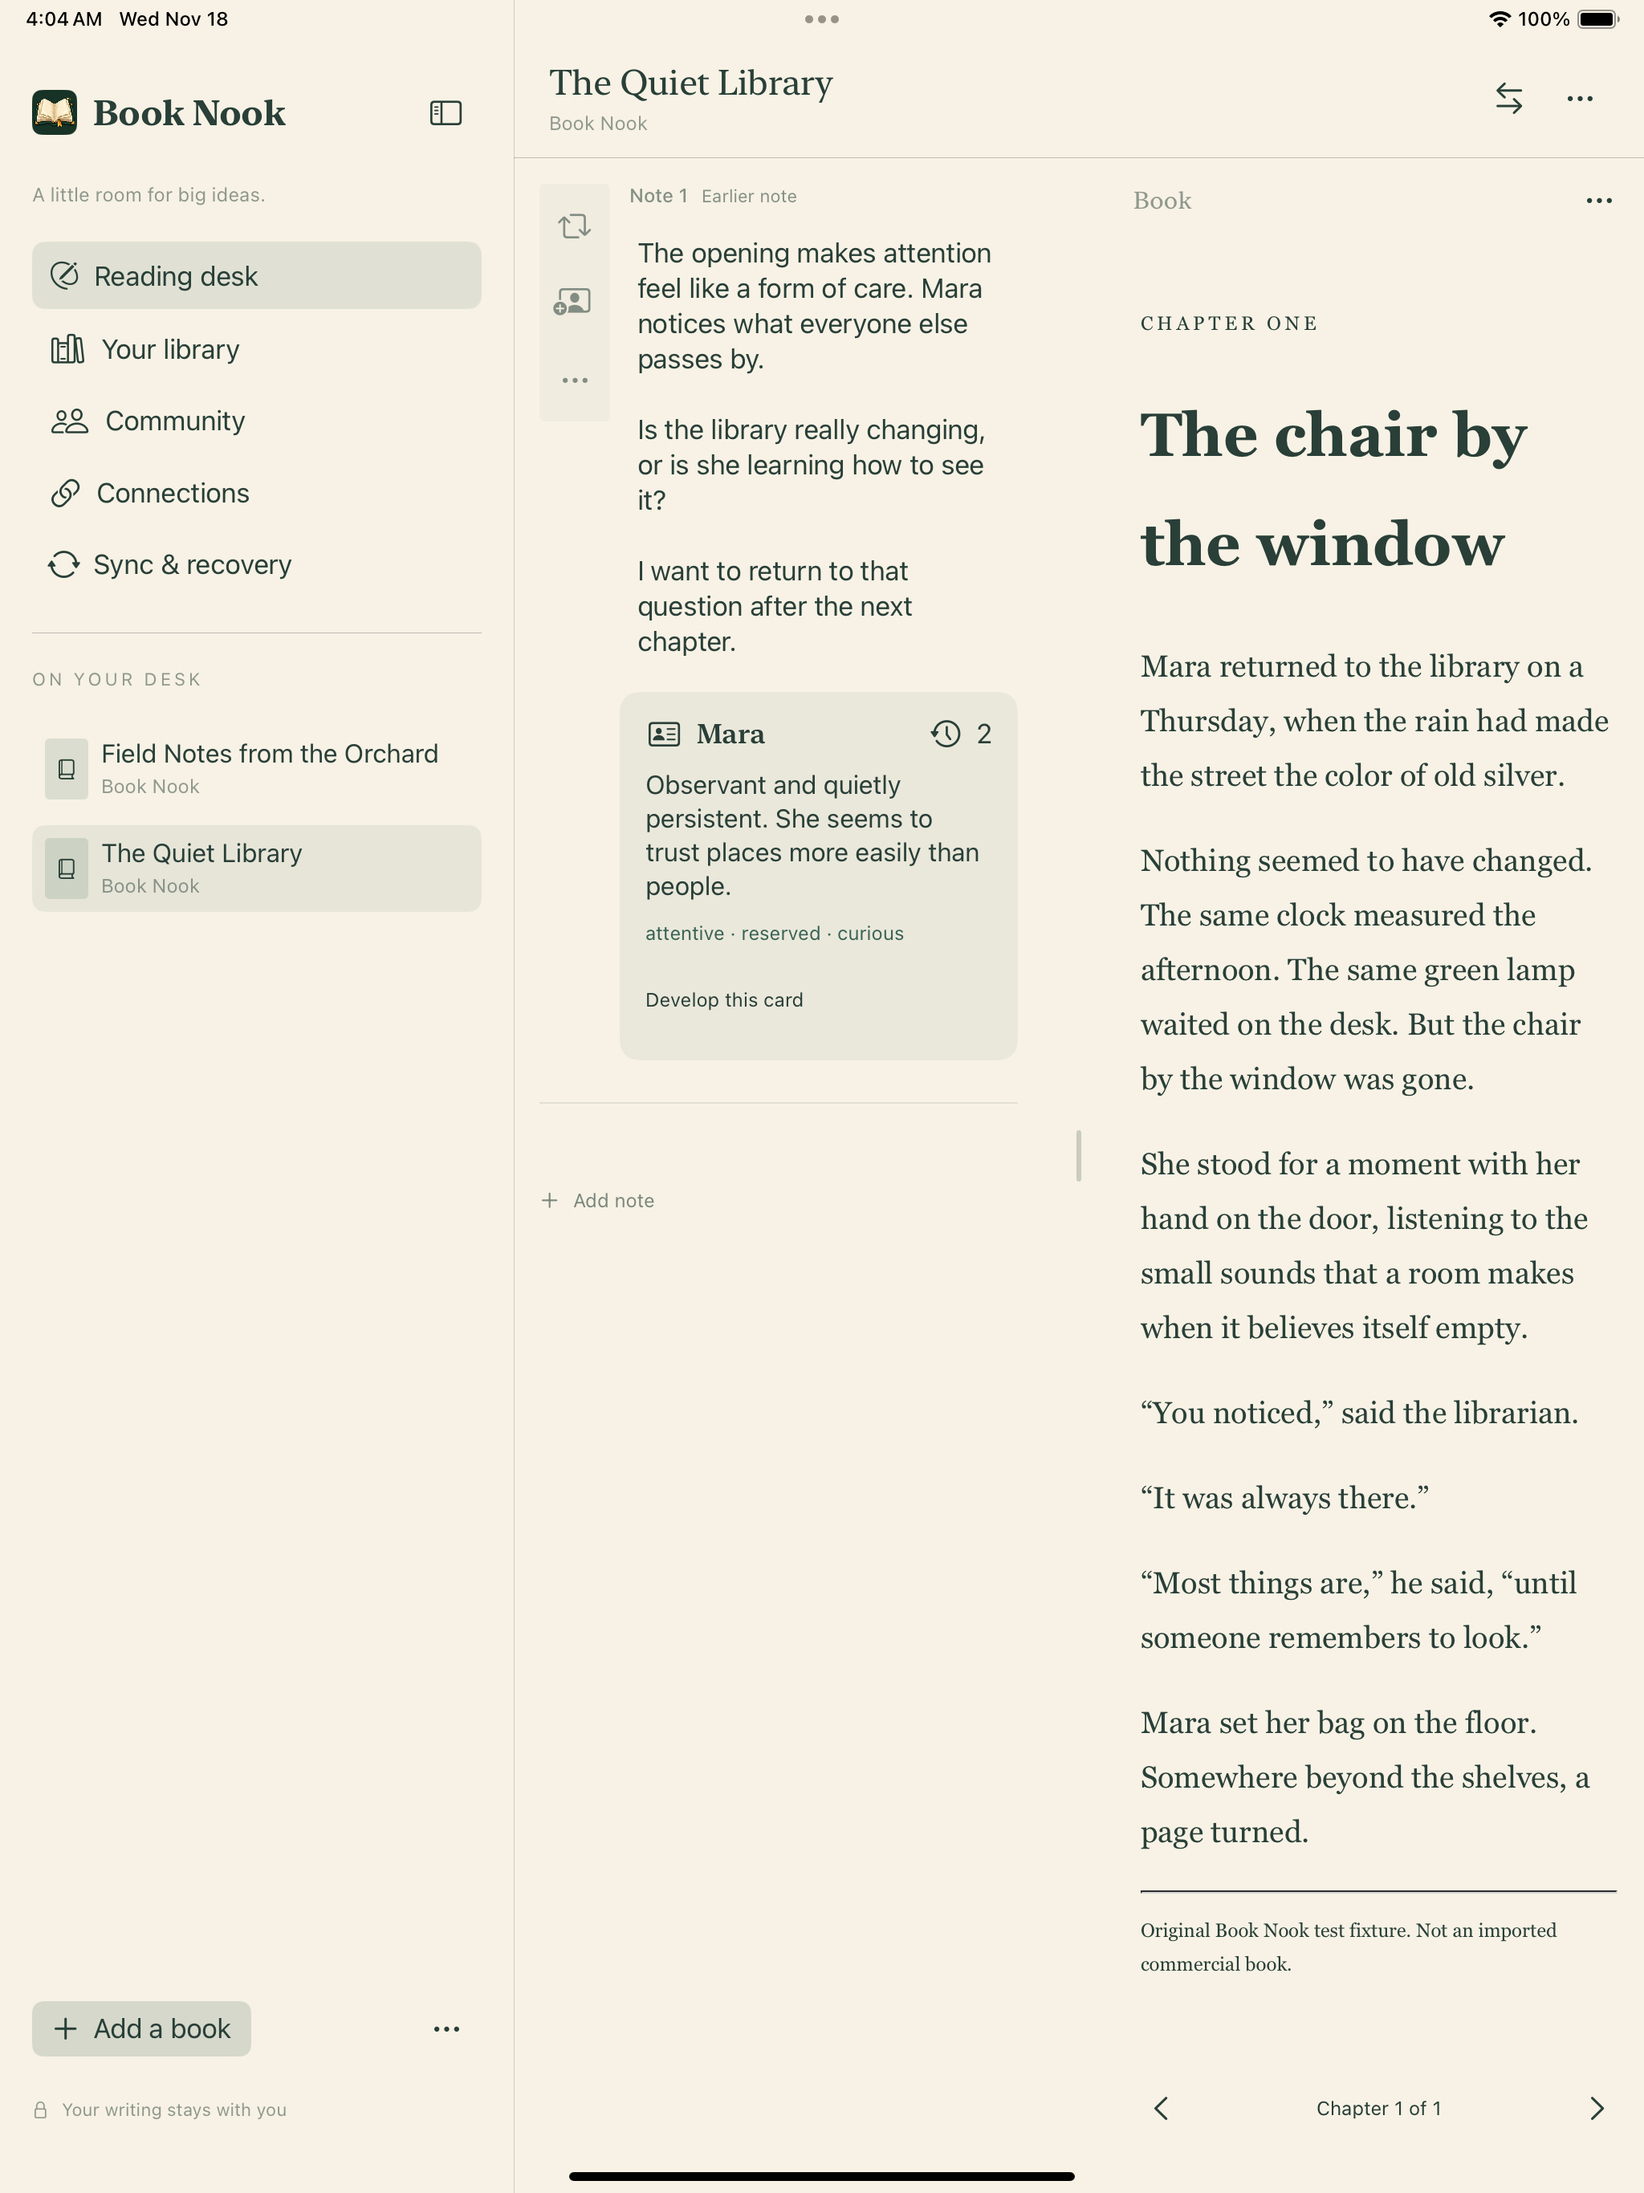
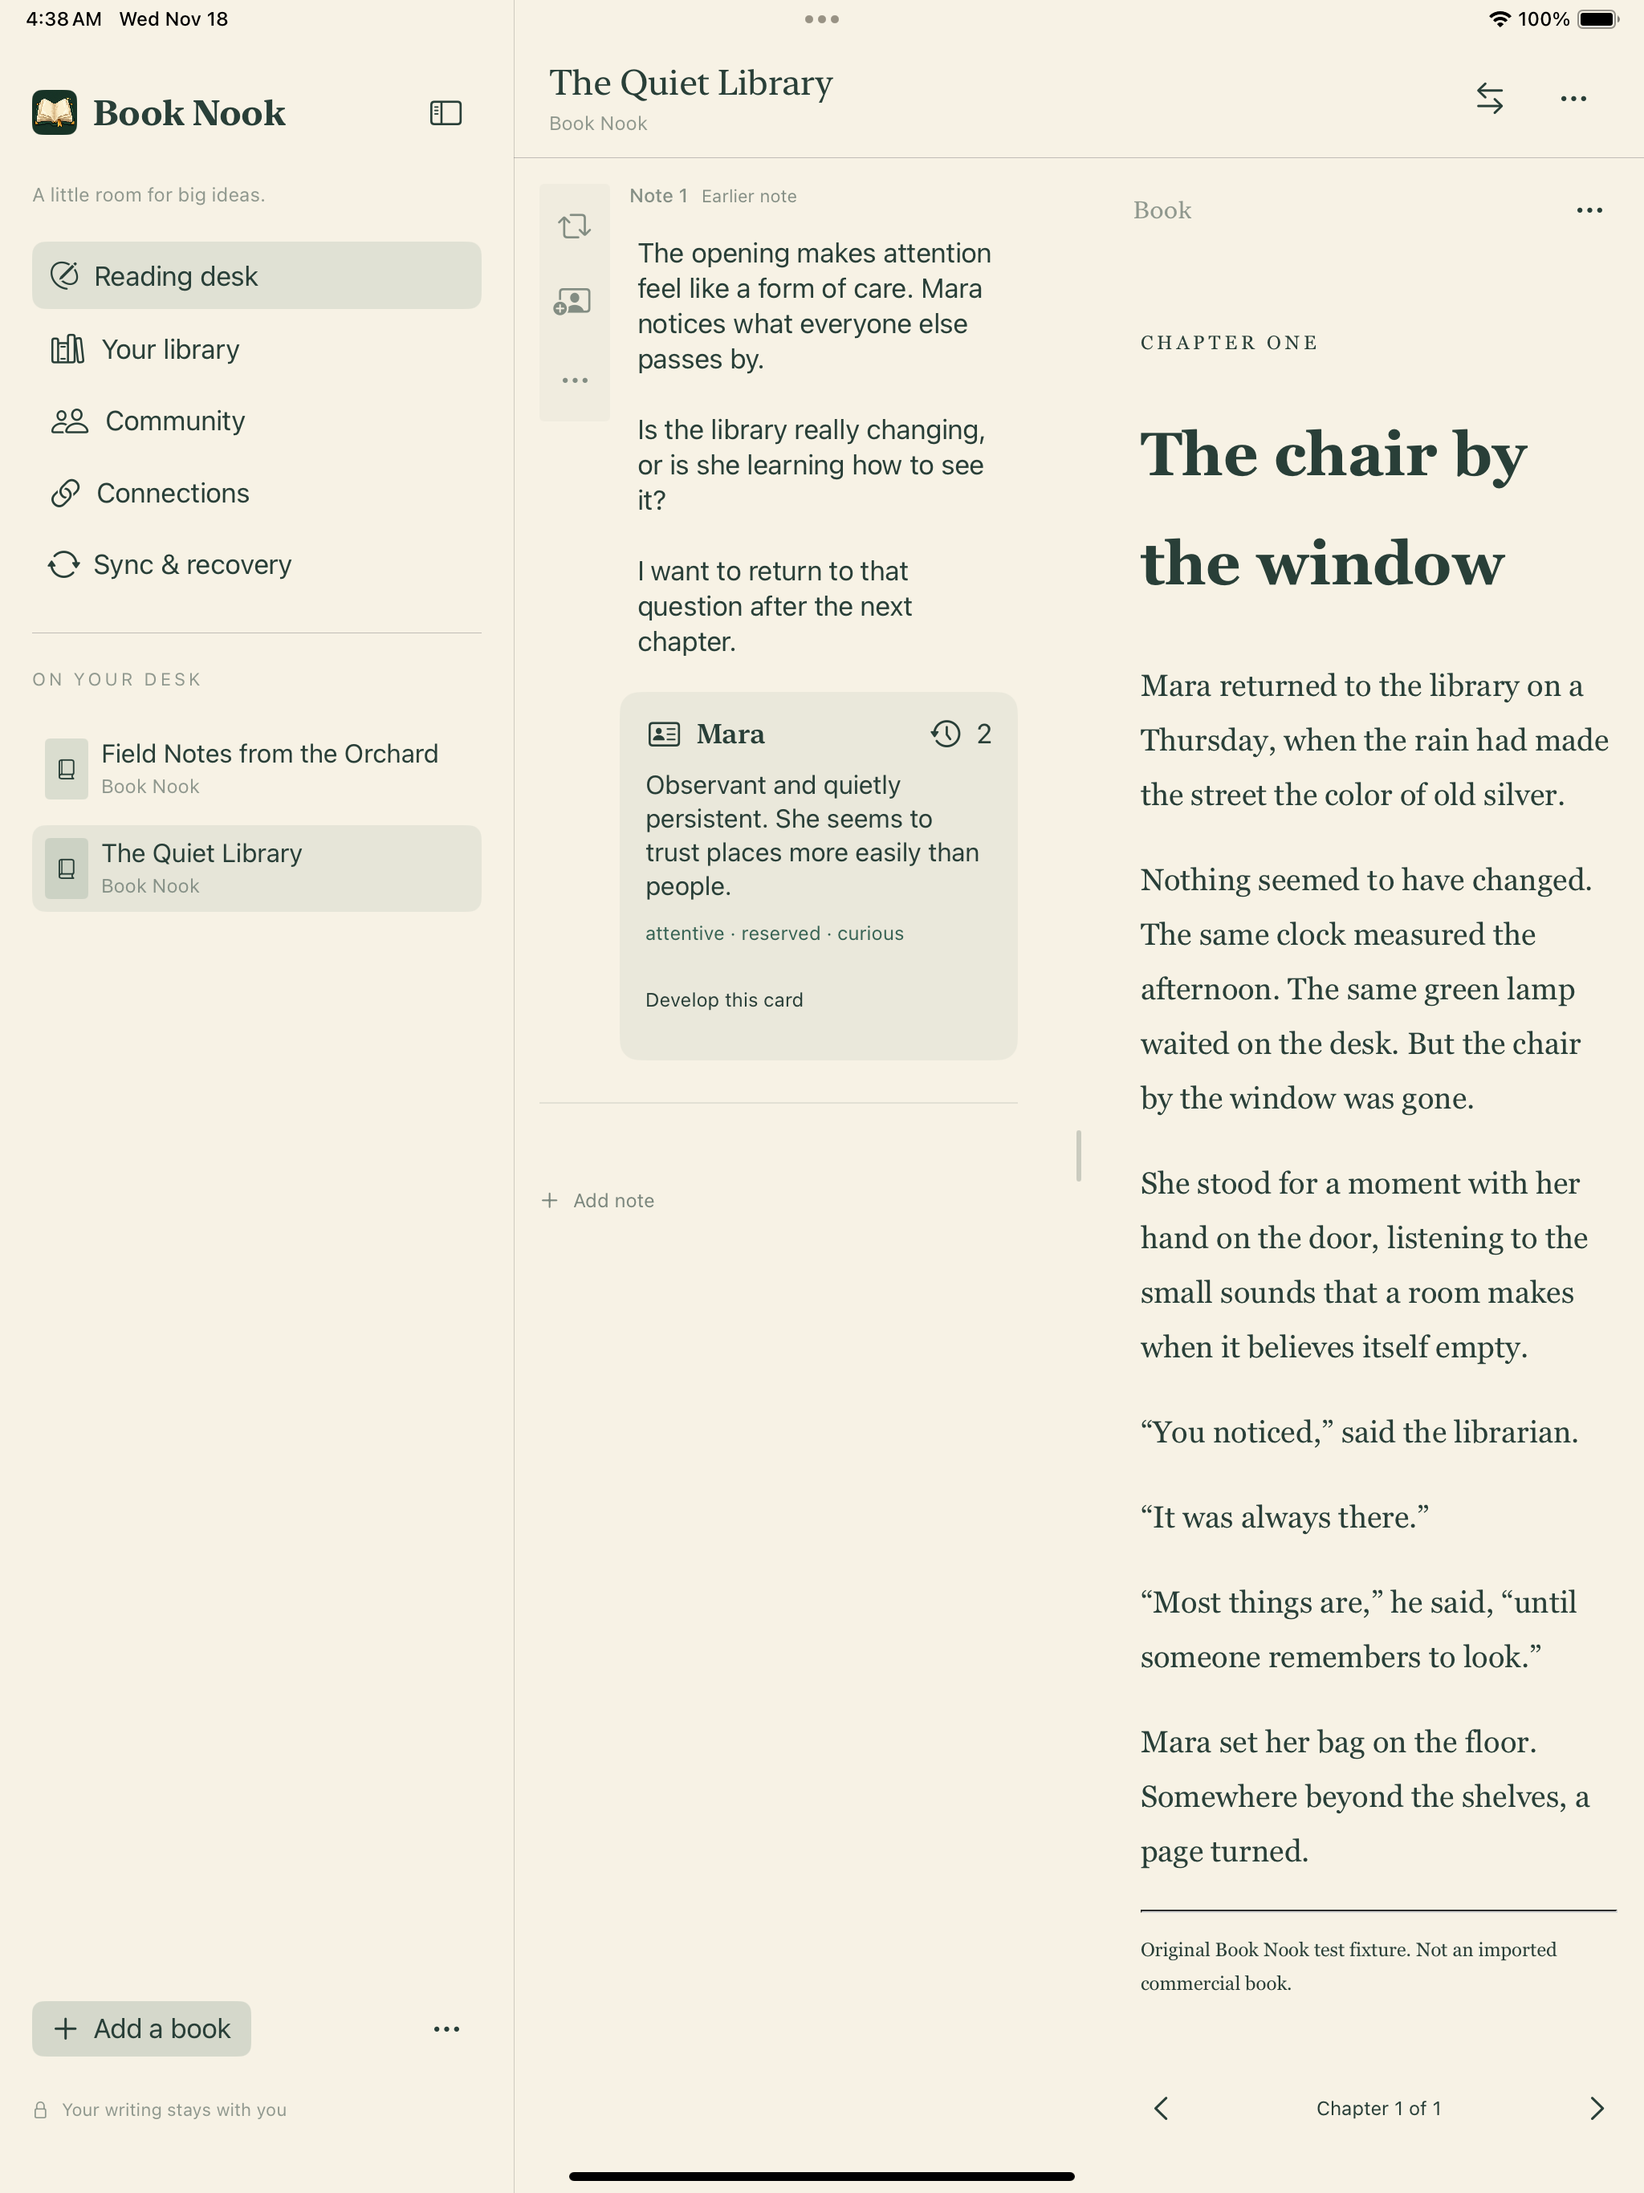
Record Book Nook preview 1725 and iPad update

Changed region(s): [[0.6875, 0.1867, 0.9688, 0.9023], [0.7188, 0.1245, 0.75, 0.1556]]

diff --git a/README.md b/README.md
@@ -6,6 +6,8 @@ A native reading notebook for macOS and iPad, backed by open Rust, Swift and WAS
 
 The implementation includes an offline reading desk, rich TextKit editing, EPUB, PDF, and legacy MOBI6 reading and annotation, character interpretation history, imports, Castalia consent, approved encrypted device transfers, Nostr social workflows, and reviewed RSS/Atom settings with offline publications. **It is not a qualified production release:** live Kindle/Audible/Castalia access, current physical input/accessibility, remote social/device sync and minimum-OS runtime checks remain open. Unavailable integrations return explicit errors. See [delivery status](docs/DELIVERY.md), the [full-plan acceptance matrix](docs/PLAN-ACCEPTANCE.md), [validation](docs/VALIDATION.md), the [decision log](docs/DECISIONS.md), the [UX review](docs/UX-REVIEW.md), and [DevGraph work tracking](docs/DEVGRAPH.md).
 
+App preview 0.2.1 build **2026111725** keeps the reading-desk toolbar legible at accessibility text sizes and reflows long Scribble headings. Four isolated iPadOS Simulator checks passed. All eight public downloads matched. The normal iPad app was updated in place and reopened with its library, Scribble and social state intact. [App preview](https://github.com/bananawalnut/booknook/releases/tag/v0.2.1-app-preview.20261117.25) · [Build evidence](docs/app-2026111725-public-preview-evidence.json)
+
 App preview 0.2.1 build **2026111724** enlarges four iPad reading-desk touch targets and makes the sidebar readable at accessibility text sizes. An isolated iPadOS Simulator test verified wrapping, scrolling and Add a book at the largest size. All eight public downloads matched. The normal iPad app was updated in place and reopened with its library, Scribble and social state intact. [App preview](https://github.com/bananawalnut/booknook/releases/tag/v0.2.1-app-preview.20261117.24) · [Build evidence](docs/app-2026111724-public-preview-evidence.json)
 
 App preview 0.2.1 build **2026111722** verifies the selected file when importing books and catalogs. The iPadOS Files acceptance covered cancel, attach and reopen of an original PDF. All eight public downloads matched. The normal iPad app was updated in place and reopened with its library, Scribble and social state intact. [App preview](https://github.com/bananawalnut/booknook/releases/tag/v0.2.1-app-preview.20261117.22) · [Build evidence](docs/app-2026111722-public-preview-evidence.json)
@@ -92,7 +94,7 @@ The earlier iPad acceptance check [updated the normal app in place to 0.2.1 (202
 
 ![Book Nook iPad reading desk with a Margin note and character card alongside an EPUB](docs/screenshots/ipad-current.png)
 
-The Mac window shows published build **2026111720**. The iPad Simulator image shows published build **2026111724**. Both use the same sample desk. [Capture details](docs/screenshots/README.md)
+The Mac window shows published build **2026111720**. The iPad Simulator image shows published build **2026111725**. Both use the same sample desk. [Capture details](docs/screenshots/README.md)
 
 ## Run the native apps
 

diff --git a/docs/DELIVERY.md b/docs/DELIVERY.md
@@ -4,6 +4,8 @@ Book Nook has an integrated native development app and open Rust, Swift, and WAS
 
 Build 1722 is staged with one bounded native reader for selected EPUB/PDF/MOBI, catalog and feed-settings files. It checks the opened descriptor and keeps the picker’s original grant, byte limits, and cancellation handling. All three Mac import workflows passed against the published Swift SDK. The candidate iPadOS 18.6 Simulator app passed Files cancellation, selection from a separate file-sharing app, exact PDF attachment and a fresh-process reopen. Hosted archive checks are pending. [Native import evidence](native-selected-file-evidence.json)
 
+[App build 1725](https://github.com/bananawalnut/booknook/releases/tag/v0.2.1-app-preview.20261117.25) keeps the reading-desk toolbar legible at accessibility text sizes and reflows long Scribble headings. Four isolated iPadOS Simulator checks passed. All eight public downloads matched. The normal iPad app was updated in place and reopened with its library, Scribble and social state intact. [Build evidence](app-2026111725-public-preview-evidence.json) · [iPadOS accessibility acceptance](ipados-reading-desk-toolbar-evidence.json)
+
 [App build 1724](https://github.com/bananawalnut/booknook/releases/tag/v0.2.1-app-preview.20261117.24) enlarges four iPad reading-desk touch targets and makes the sidebar readable at accessibility text sizes. An isolated iPadOS Simulator test verified wrapping, scrolling and Add a book at the largest size. All eight public downloads matched. The normal iPad app was updated in place and reopened with its library, Scribble and social state intact. [Build evidence](app-2026111724-public-preview-evidence.json) · [iPadOS accessibility acceptance](ipados-sidebar-dynamic-type-evidence.json)
 
 [App build 1722](https://github.com/bananawalnut/booknook/releases/tag/v0.2.1-app-preview.20261117.22) verifies the selected file when importing books and catalogs. The iPadOS Files acceptance covered cancel, attach and reopen of an original PDF. All eight public downloads matched. The normal iPad app was updated in place and reopened with its library, Scribble and social state intact. [Build evidence](app-2026111722-public-preview-evidence.json) · [Native file acceptance](native-selected-file-evidence.json)

diff --git a/docs/screenshots/README.md b/docs/screenshots/README.md
@@ -5,8 +5,8 @@ Both captures use native Book Nook **0.2.1 Release apps** and synthetic desks.
 | Screenshot | Build | Workspace | Capture environment |
 |---|---|---|---|
 | [macOS reading desk](macos-current.jpg) | 2026111720 | *The Quiet Library* EPUB, a Margin note and a character card | macOS 26.4.1 native app window |
-| [iPad reading desk](ipad-current.png) | 2026111724 | *The Quiet Library* EPUB, a Margin note and a character card | iPad Air 13-inch (M2), iPadOS 18.6 Simulator, portrait |
+| [iPad reading desk](ipad-current.png) | 2026111725 | *The Quiet Library* EPUB, a Margin note and a character card | iPad Air 13-inch (M2), iPadOS 18.6 Simulator, portrait |
 
 The Mac image is an actual app window with an 80-pixel top crop. The iPad image preserves the original Simulator framebuffer. [Capture metadata](current.json) identifies each executable, source commit and image hash. [Build 1705 evidence](../app-2026111705-public-preview-evidence.json) records the separate installation on the physical iPad.
 
-Each image is tied to its capture and executable. [Build 1720 evidence](../app-2026111720-public-preview-evidence.json) · [Build 1721 evidence](../app-2026111721-public-preview-evidence.json) · [Build 1722 evidence](../app-2026111722-public-preview-evidence.json) · [Build 1724 evidence](../app-2026111724-public-preview-evidence.json)
+Each image is tied to its capture and executable. [Build 1720 evidence](../app-2026111720-public-preview-evidence.json) · [Build 1721 evidence](../app-2026111721-public-preview-evidence.json) · [Build 1722 evidence](../app-2026111722-public-preview-evidence.json) · [Build 1724 evidence](../app-2026111724-public-preview-evidence.json) · [Build 1725 evidence](../app-2026111725-public-preview-evidence.json)

diff --git a/docs/DECISIONS.md b/docs/DECISIONS.md
@@ -333,3 +333,4 @@ Detailed workstream records: [social](decisions/social.md), [integrations](decis
 | D245 | Publish the combined iPad accessibility improvements in development preview 1724. | Verify all archived apps and public downloads. Preserve the physical iPad desk during the update. Keep Simulator accessibility results separate from VoiceOver and physical-input qualification. [Build evidence](app-2026111724-public-preview-evidence.json) |
 | D246 | Keep the reading-desk toolbar usable at accessibility text sizes. | Bound the toolbar glyphs inside their touch targets, reflow the note heading and preserve the standard two-line context limit. Verify the controls and a long Scribble context against the same candidate. [Toolbar evidence](ipados-reading-desk-toolbar-evidence.json) |
 | D247 | Verify approved encrypted notebook exchange across the published Swift and WASM SDKs. | Treat the exact saved packet as the retry. Check that the native receiver preserves its state when a different encryption reuses the approved batch ID. Verify fresh signing consent and historical delivery under the SDK's existing rules. [Sync evidence](sdk-035-swift-wasm-sync-evidence.json) |
+| D248 | Publish the iPad reading-desk toolbar improvements in development preview 1725. | Verify all archived apps and public downloads. Preserve the physical iPad desk during the update. Keep Simulator accessibility results separate from VoiceOver and physical-input qualification. [Build evidence](app-2026111725-public-preview-evidence.json) |
